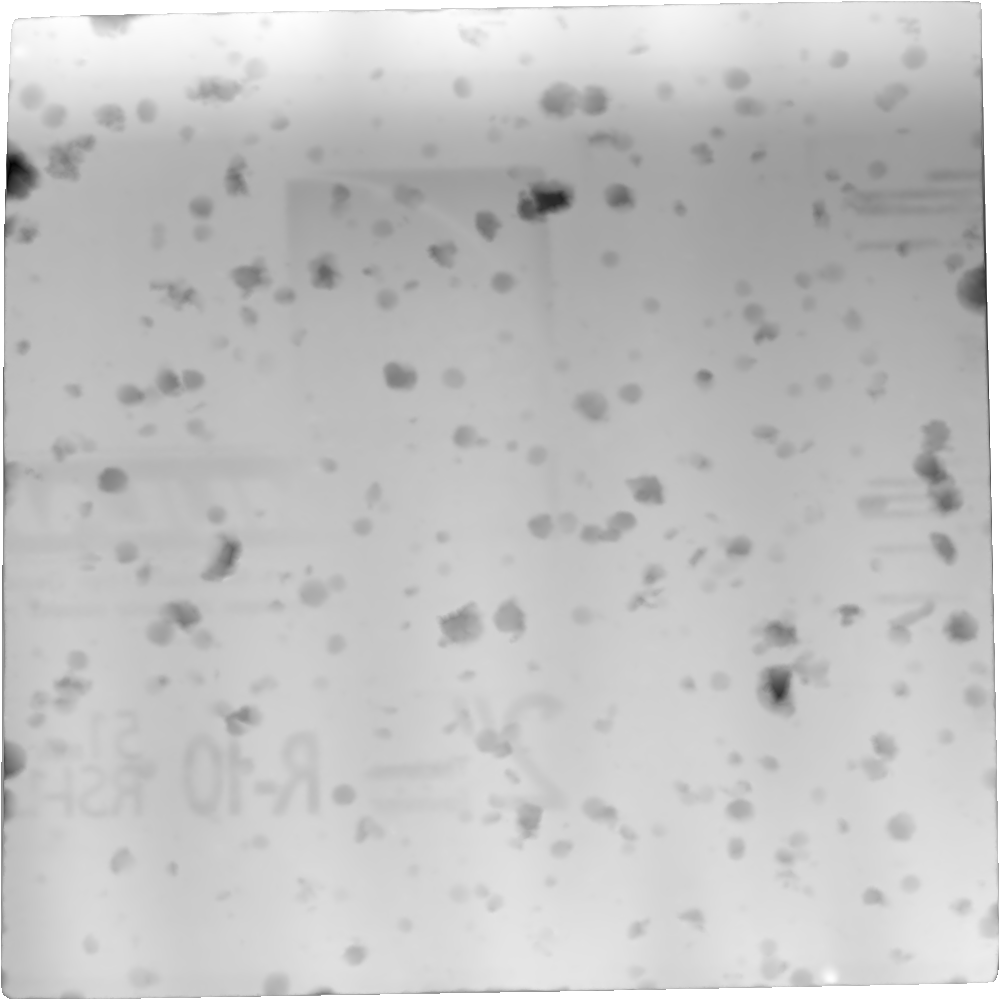
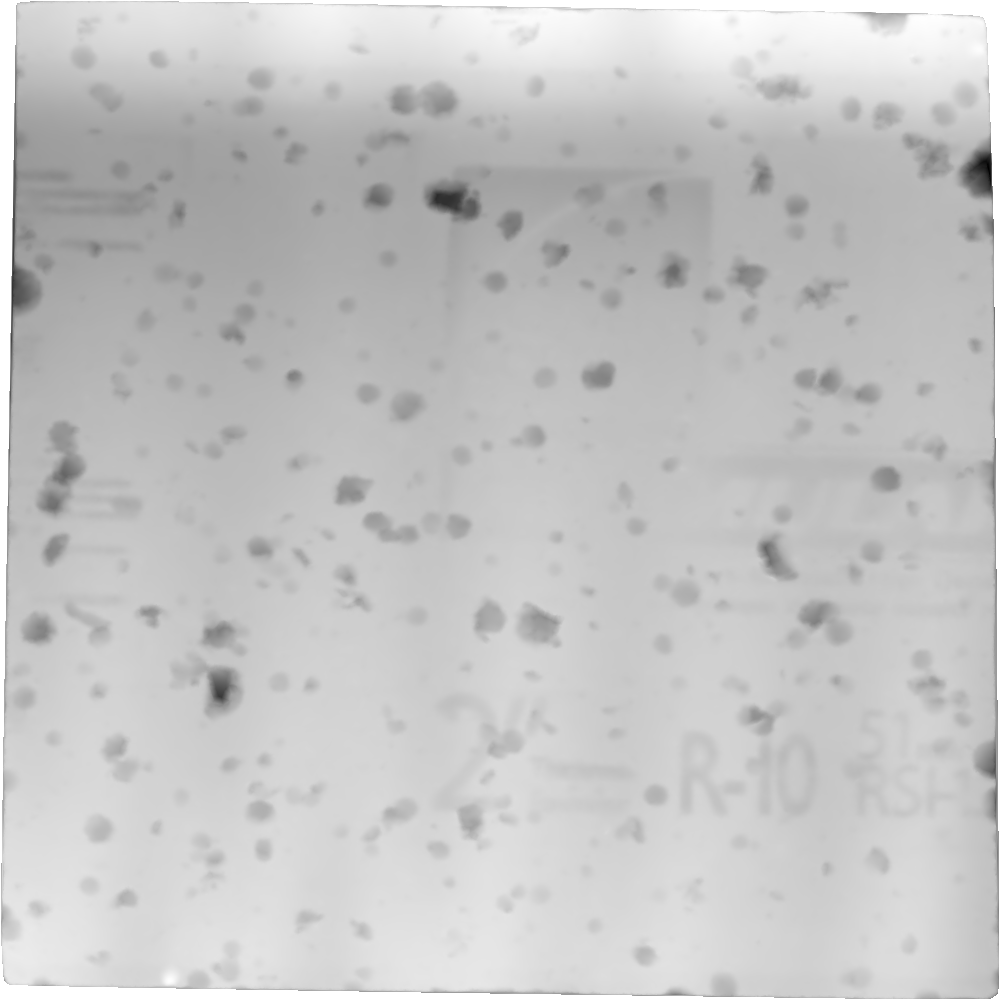
Fixed non-deterministic pcd generation and accounted for y-axis reflection

diff --git a/src/main.py b/src/main.py
@@ -13,7 +13,8 @@ def main():
     # # o3d.visualization.draw_geometries(
     # #     [mesh], window_name = "Hailpad Mesh", width = 750, height = 750)
 
-    # # Create point cloud from mesh
+    # # Create point cloud from mesh (set an arbitrary seed for reproducibility)
+    # np.random.seed(0)
     # pcd = mesh.sample_points_uniformly(number_of_points = 1000000)
 
     # # Fit minimal bounding box
@@ -38,7 +39,9 @@ def main():
     # #                                   zoom = 0.7,
     # #                                   front = [0, 0, 1],
     # #                                   lookat = [0, 0, 0],
-    # #                                   up = [0, 1, 0])
+    # #                                   up = [0, 1, 0],
+    # #                                   window_name = "Hailpad Point Cloud",
+    # #                                   width = 750, height = 750)
     
     # # Convert to numpy array
     # pts = np.asarray(pcd.points)
@@ -81,6 +84,7 @@ def main():
     # # Save as regular image (convert from float to byte)
     # dmap *= 255.0
     # dmap = dmap.astype(np.uint8)
+    # dmap = cv2.flip(dmap, 1)
     # cv2.imwrite("src/images/dmap.png", dmap)
 
     # Load image
